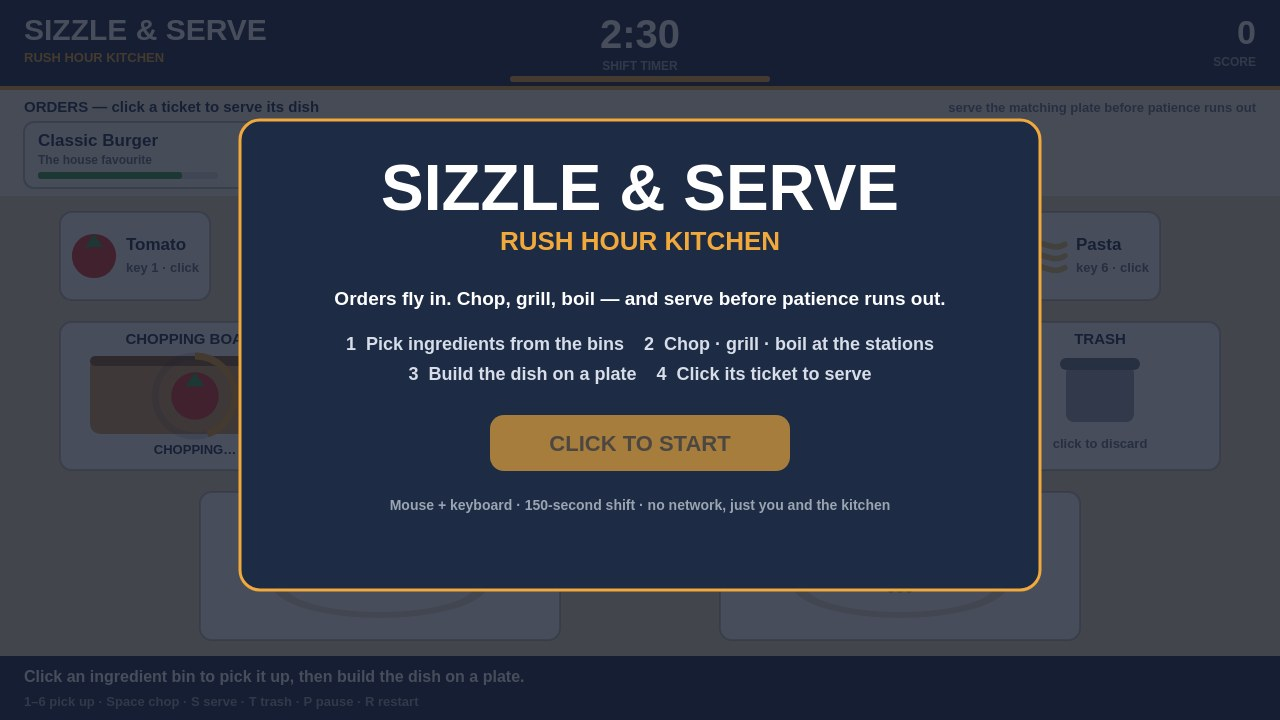
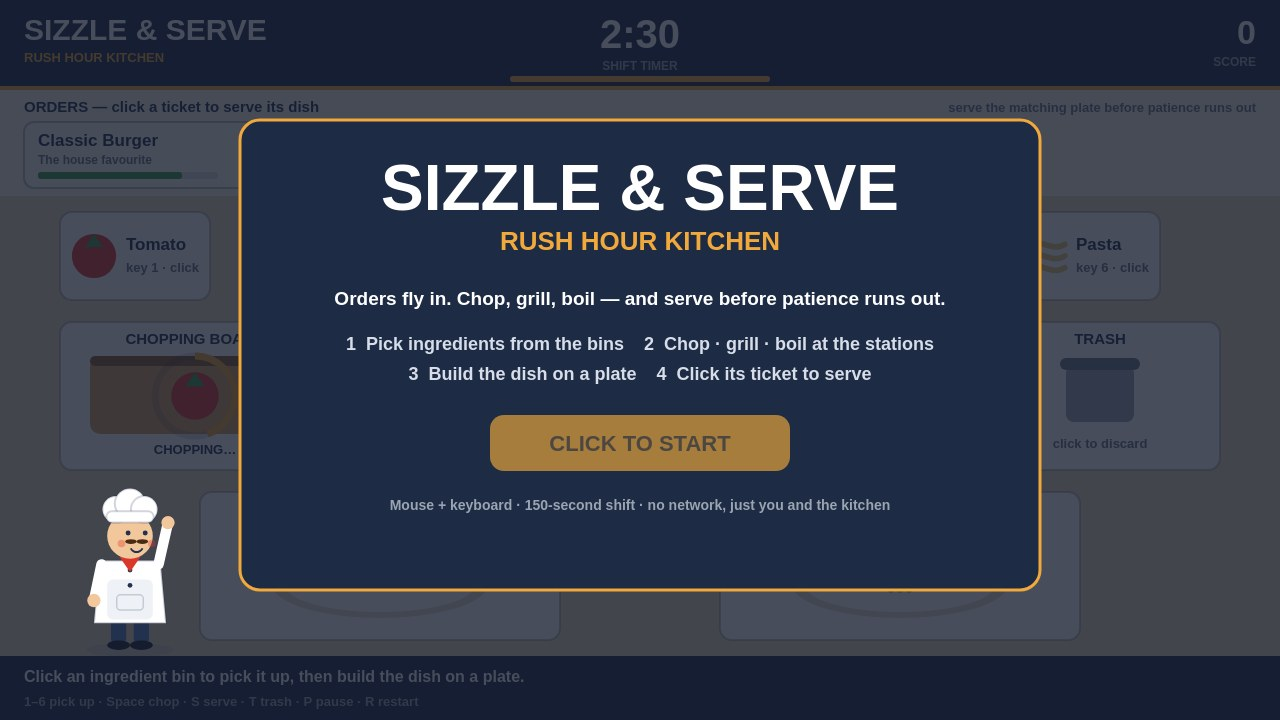
Add the chef: he works the pass, chops/grills/stirs, celebrates serves, and waves on the title screen

Changed region(s): [[0.0625, 0.6722, 0.1562, 0.9167]]

diff --git a/game/src/chef.js b/game/src/chef.js
@@ -1,0 +1,250 @@
+// Sizzle & Serve — the chef: a flat-vector cook who works the kitchen.
+// One job: draw the chef and decide what he is doing, from the game state.
+// He stands at the pass between the two plates, so he never covers the
+// order board, the timer, the stations, or a plate — and no click zone
+// lives where he stands, so he never eats a click.
+
+import { findMatchingPlate } from './state.js';
+
+// What the chef is doing right now: chop beats grill beats stir beats serve.
+export function chefPose(game) {
+  if (!game || game.screen !== 'playing') return 'idle';
+  if (game.board && game.board.chopping) return 'chop';
+  if (game.grill && game.grill.cooking && game.grill.item) return 'grill';
+  if (game.pot && game.pot.cooking && game.pot.item) return 'stir';
+  if (game.orders && game.orders.some((o) => findMatchingPlate(game, o.recipe))) return 'serve';
+  return 'idle';
+}
+
+function ellipse(ctx, x, y, rx, ry) {
+  ctx.beginPath();
+  ctx.ellipse(x, y, rx, ry, 0, 0, Math.PI * 2);
+}
+
+function circle(ctx, x, y, r) {
+  ctx.beginPath();
+  ctx.arc(x, y, r, 0, Math.PI * 2);
+}
+
+function roundRect(ctx, x, y, w, h, r) {
+  ctx.beginPath();
+  ctx.moveTo(x + r, y);
+  ctx.arcTo(x + w, y, x + w, y + h, r);
+  ctx.arcTo(x + w, y + h, x, y + h, r);
+  ctx.arcTo(x, y + h, x, y, r);
+  ctx.arcTo(x, y, x + w, y, r);
+  ctx.closePath();
+}
+
+// Draw the chef standing on the floor at (cx, feetY), about 160*s tall.
+// pose: 'idle' | 'chop' | 'grill' | 'stir' | 'serve' | 'wave'. t is seconds
+// (game.elapsed); frozen staged shots get a fixed t, so the frame is stable.
+export function drawChef(ctx, cx, feetY, s, pose, t) {
+  const bob = pose === 'idle' ? Math.sin(t * 2) * 2 : 0;
+  const lookX = pose === 'chop' ? -7 : pose === 'grill' ? -4 : pose === 'stir' ? 6 : pose === 'wave' ? 7 : 0;
+  const tilt = pose === 'chop' ? -0.06 : pose === 'stir' ? 0.06 : 0;
+  ctx.save();
+  ctx.translate(0, bob);
+
+  // soft shadow
+  ctx.fillStyle = 'rgba(34,49,78,0.15)';
+  ellipse(ctx, cx, feetY + 2, 46 * s, 7 * s);
+  ctx.fill();
+
+  // legs + shoes
+  ctx.fillStyle = '#22314e';
+  roundRect(ctx, cx - 20 * s, feetY - 30 * s, 16 * s, 24 * s, 4 * s);
+  ctx.fill();
+  roundRect(ctx, cx + 4 * s, feetY - 30 * s, 16 * s, 24 * s, 4 * s);
+  ctx.fill();
+  ctx.fillStyle = '#141c2e';
+  ellipse(ctx, cx - 12 * s, feetY - 3 * s, 12 * s, 5 * s);
+  ctx.fill();
+  ellipse(ctx, cx + 12 * s, feetY - 3 * s, 12 * s, 5 * s);
+  ctx.fill();
+
+  // jacket: white trapezoid, shoulders to hips
+  ctx.fillStyle = '#ffffff';
+  ctx.strokeStyle = 'rgba(34,49,78,0.25)';
+  ctx.lineWidth = 2;
+  ctx.beginPath();
+  ctx.moveTo(cx - 32 * s, feetY - 92 * s);
+  ctx.lineTo(cx + 32 * s, feetY - 92 * s);
+  ctx.lineTo(cx + 38 * s, feetY - 26 * s);
+  ctx.lineTo(cx - 38 * s, feetY - 26 * s);
+  ctx.closePath();
+  ctx.fill();
+  ctx.stroke();
+  // apron panel + pocket
+  ctx.fillStyle = '#eef2f7';
+  roundRect(ctx, cx - 24 * s, feetY - 72 * s, 48 * s, 42 * s, 6 * s);
+  ctx.fill();
+  ctx.strokeStyle = 'rgba(34,49,78,0.2)';
+  ctx.lineWidth = 1.5;
+  roundRect(ctx, cx - 14 * s, feetY - 56 * s, 28 * s, 16 * s, 4 * s);
+  ctx.stroke();
+  // jacket buttons
+  ctx.fillStyle = '#22314e';
+  circle(ctx, cx, feetY - 82 * s, 2.5 * s);
+  ctx.fill();
+  circle(ctx, cx, feetY - 66 * s, 2.5 * s);
+  ctx.fill();
+
+  // neck + red neckerchief
+  ctx.fillStyle = '#f2c79b';
+  ctx.fillRect(cx - 7 * s, feetY - 98 * s, 14 * s, 8 * s);
+  ctx.fillStyle = '#d9382b';
+  ctx.beginPath();
+  ctx.moveTo(cx - 11 * s, feetY - 96 * s);
+  ctx.lineTo(cx + 11 * s, feetY - 96 * s);
+  ctx.lineTo(cx, feetY - 80 * s);
+  ctx.closePath();
+  ctx.fill();
+
+  // head
+  ctx.fillStyle = '#f2c79b';
+  circle(ctx, cx, feetY - 118 * s, 24 * s);
+  ctx.fill();
+  // eyes + cheeks + moustache + smile, all shifted toward where he looks
+  ctx.fillStyle = '#22314e';
+  circle(ctx, cx - 9 * s + lookX * s, feetY - 121 * s, 2.6 * s);
+  ctx.fill();
+  circle(ctx, cx + 9 * s + lookX * s, feetY - 121 * s, 2.6 * s);
+  ctx.fill();
+  ctx.fillStyle = 'rgba(224,57,47,0.35)';
+  circle(ctx, cx - 16 * s + lookX * s, feetY - 110 * s, 4 * s);
+  ctx.fill();
+  circle(ctx, cx + 16 * s + lookX * s, feetY - 110 * s, 4 * s);
+  ctx.fill();
+  ctx.fillStyle = '#4a2c14';
+  ellipse(ctx, cx - 6 * s + lookX * s, feetY - 112 * s, 6 * s, 2.6 * s);
+  ctx.fill();
+  ellipse(ctx, cx + 6 * s + lookX * s, feetY - 112 * s, 6 * s, 2.6 * s);
+  ctx.fill();
+  ctx.strokeStyle = '#22314e';
+  ctx.lineWidth = 2 * s;
+  ctx.beginPath();
+  ctx.arc(cx + lookX * s, feetY - 108 * s, pose === 'serve' ? 10 * s : 7 * s, 0.15 * Math.PI, 0.85 * Math.PI);
+  ctx.stroke();
+
+  // toque: puffy white hat, tilted a touch toward the work
+  ctx.save();
+  ctx.translate(cx, feetY - 118 * s);
+  ctx.rotate(tilt);
+  ctx.translate(-cx, -(feetY - 118 * s));
+  ctx.fillStyle = '#ffffff';
+  ctx.strokeStyle = 'rgba(34,49,78,0.2)';
+  ctx.lineWidth = 2;
+  circle(ctx, cx - 15 * s, feetY - 146 * s, 14 * s);
+  ctx.fill();
+  ctx.stroke();
+  circle(ctx, cx, feetY - 152 * s, 16 * s);
+  ctx.fill();
+  ctx.stroke();
+  circle(ctx, cx + 15 * s, feetY - 146 * s, 14 * s);
+  ctx.fill();
+  ctx.stroke();
+  roundRect(ctx, cx - 25 * s, feetY - 144 * s, 50 * s, 12 * s, 6 * s);
+  ctx.fill();
+  ctx.stroke();
+  ctx.restore();
+
+  drawChefArms(ctx, cx, feetY, s, pose, t);
+  ctx.restore();
+}
+
+// Arms + the tool in hand, per pose. Shoulders sit at the jacket top;
+// the hand is a skin circle, the arm a white sleeve line.
+function drawChefArms(ctx, cx, feetY, s, pose, t) {
+  const shoulderL = { x: cx - 30 * s, y: feetY - 88 * s };
+  const shoulderR = { x: cx + 30 * s, y: feetY - 88 * s };
+  ctx.lineCap = 'round';
+
+  // hand targets per pose
+  let leftHand;
+  let rightHand;
+  if (pose === 'serve') {
+    const lift = Math.sin(t * 6) * 4 * s;
+    leftHand = { x: cx - 44 * s, y: feetY - 128 * s + lift };
+    rightHand = { x: cx + 44 * s, y: feetY - 128 * s + lift };
+  } else if (pose === 'wave') {
+    leftHand = { x: cx - 38 * s, y: feetY - 50 * s };
+    rightHand = { x: cx + 40 * s, y: feetY - 132 * s + Math.sin(t * 4) * 6 * s };
+  } else if (pose === 'chop') {
+    leftHand = { x: cx - 42 * s, y: feetY - 58 * s }; // hand on hip
+    rightHand = { x: cx + 36 * s, y: feetY - 118 * s + Math.sin(t * 10) * 10 * s };
+  } else if (pose === 'grill') {
+    leftHand = { x: cx - 42 * s, y: feetY - 58 * s }; // hand on hip
+    rightHand = { x: cx + 44 * s, y: feetY - 72 * s + Math.sin(t * 6) * 8 * s };
+  } else if (pose === 'stir') {
+    leftHand = { x: cx - 42 * s, y: feetY - 58 * s }; // hand on hip
+    rightHand = {
+      x: cx + 42 * s + Math.cos(t * 5) * 5 * s,
+      y: feetY - 66 * s + Math.sin(t * 5) * 5 * s,
+    };
+  } else {
+    // idle: arms relaxed, wooden spoon in the right hand
+    leftHand = { x: cx - 38 * s, y: feetY - 50 * s };
+    rightHand = { x: cx + 38 * s, y: feetY - 50 * s };
+  }
+
+  // sleeves
+  ctx.strokeStyle = '#ffffff';
+  ctx.lineWidth = 11 * s;
+  ctx.beginPath();
+  ctx.moveTo(shoulderL.x, shoulderL.y);
+  ctx.lineTo(leftHand.x, leftHand.y);
+  ctx.stroke();
+  ctx.beginPath();
+  ctx.moveTo(shoulderR.x, shoulderR.y);
+  ctx.lineTo(rightHand.x, rightHand.y);
+  ctx.stroke();
+
+  // hands
+  ctx.fillStyle = '#f2c79b';
+  circle(ctx, leftHand.x, leftHand.y, 7 * s);
+  ctx.fill();
+  circle(ctx, rightHand.x, rightHand.y, 7 * s);
+  ctx.fill();
+
+  // the tool in the right hand
+  if (pose === 'chop') {
+    // cleaver, blade pointing down
+    ctx.save();
+    ctx.translate(rightHand.x + 2 * s, rightHand.y + 4 * s);
+    ctx.rotate(0.5);
+    ctx.fillStyle = '#8a5a3b';
+    roundRect(ctx, -3 * s, -14 * s, 6 * s, 12 * s, 2 * s);
+    ctx.fill();
+    ctx.fillStyle = '#c7d0d9';
+    roundRect(ctx, -11 * s, -2 * s, 22 * s, 12 * s, 3 * s);
+    ctx.fill();
+    ctx.restore();
+  } else if (pose === 'grill') {
+    // spatula, held flat
+    ctx.save();
+    ctx.translate(rightHand.x, rightHand.y);
+    ctx.fillStyle = '#8a5a3b';
+    roundRect(ctx, -4 * s, -2 * s, 8 * s, 18 * s, 3 * s);
+    ctx.fill();
+    ctx.fillStyle = '#9aa5b1';
+    roundRect(ctx, -13 * s, 14 * s, 26 * s, 9 * s, 3 * s);
+    ctx.fill();
+    ctx.restore();
+  } else if (pose === 'stir' || pose === 'idle') {
+    // wooden spoon
+    ctx.save();
+    ctx.translate(rightHand.x, rightHand.y);
+    ctx.rotate(pose === 'stir' ? -0.4 : 0.25);
+    ctx.strokeStyle = '#8a5a3b';
+    ctx.lineWidth = 4 * s;
+    ctx.beginPath();
+    ctx.moveTo(0, 0);
+    ctx.lineTo(0, 20 * s);
+    ctx.stroke();
+    ctx.fillStyle = '#a06a35';
+    ellipse(ctx, 0, 24 * s, 6 * s, 8 * s);
+    ctx.fill();
+    ctx.restore();
+  }
+}

diff --git a/game/src/main.js b/game/src/main.js
@@ -4,6 +4,7 @@
 import { VIEW_W, VIEW_H, SHIFT_SECONDS } from './config.js';
 import { createGame, tick, spawnOrder } from './state.js';
 import { drawKitchen } from './render.js';
+import { drawChef, chefPose } from './chef.js';
 import { drawHeader, drawOrders, drawHintBar, drawPopups, drawTitle, drawPaused, drawGameOver } from './hud.js';
 import { attachInput } from './input.js';
 import { stageShot } from './shots.js';
@@ -33,8 +34,11 @@ function render() {
   drawOrders(ctx, game, mouse);
   drawHintBar(ctx, game);
   drawPopups(ctx, game);
-  if (game.screen === 'title') drawTitle(ctx, game);
-  else if (game.screen === 'paused') drawPaused(ctx);
+  if (game.screen === 'title') {
+    drawTitle(ctx, game);
+    // the chef welcomes the player beside the title panel
+    drawChef(ctx, 130, 648, 0.95, 'wave', game.elapsed);
+  } else if (game.screen === 'paused') drawPaused(ctx);
   else if (game.screen === 'over') drawGameOver(ctx, game);
 }
 
@@ -108,6 +112,23 @@ function selfTest() {
     g5.screen = 'playing';
     tick(g5, SHIFT_SECONDS + 1);
     ok('shift ends', g5.screen === 'over');
+
+    // chef poses follow the kitchen state
+    const g6 = createGame(12);
+    g6.screen = 'playing';
+    ok('chef idle with empty kitchen', chefPose(g6) === 'idle');
+    g6.board.chopping = true;
+    ok('chef chops at the board', chefPose(g6) === 'chop');
+    g6.board.chopping = false;
+    pickUp(g6, 'patty');
+    useGrill(g6);
+    ok('chef grills at the grill', chefPose(g6) === 'grill');
+    g6.grill.item = null;
+    g6.grill.cooking = false;
+    g6.plates[0].items = ['lettuce', 'tomatoChopped'];
+    spawnOrder(g6);
+    g6.orders[0].recipe = 'salad';
+    ok('chef celebrates a ready dish', chefPose(g6) === 'serve');
   } catch (err) {
     lines.push(`FAIL exception: ${err.message}`);
   }

diff --git a/game/src/render.js b/game/src/render.js
@@ -2,6 +2,7 @@
 // One job: draw the kitchen itself on the canvas. HUD and screens live in hud.js.
 
 import { COLORS, ITEMS, BINS, BIN_W, BIN_H, BIN_Y, STATIONS, PLATES, VIEW_W } from './config.js';
+import { drawChef, chefPose } from './chef.js';
 
 export function roundRect(ctx, x, y, w, h, r) {
   ctx.beginPath();
@@ -186,6 +187,9 @@ export function drawKitchen(ctx, game, mouse) {
   drawPot(ctx, game, mouse);
   drawTrash(ctx, game, mouse);
   drawPlates(ctx, game, mouse);
+  // the chef works the pass between the two plates — except on the title
+  // screen, where the waving chef beside the panel is drawn instead
+  if (game.screen !== 'title') drawChef(ctx, 640, 648, 1, chefPose(game), game.elapsed);
   drawHands(ctx, game, mouse);
 }
 
